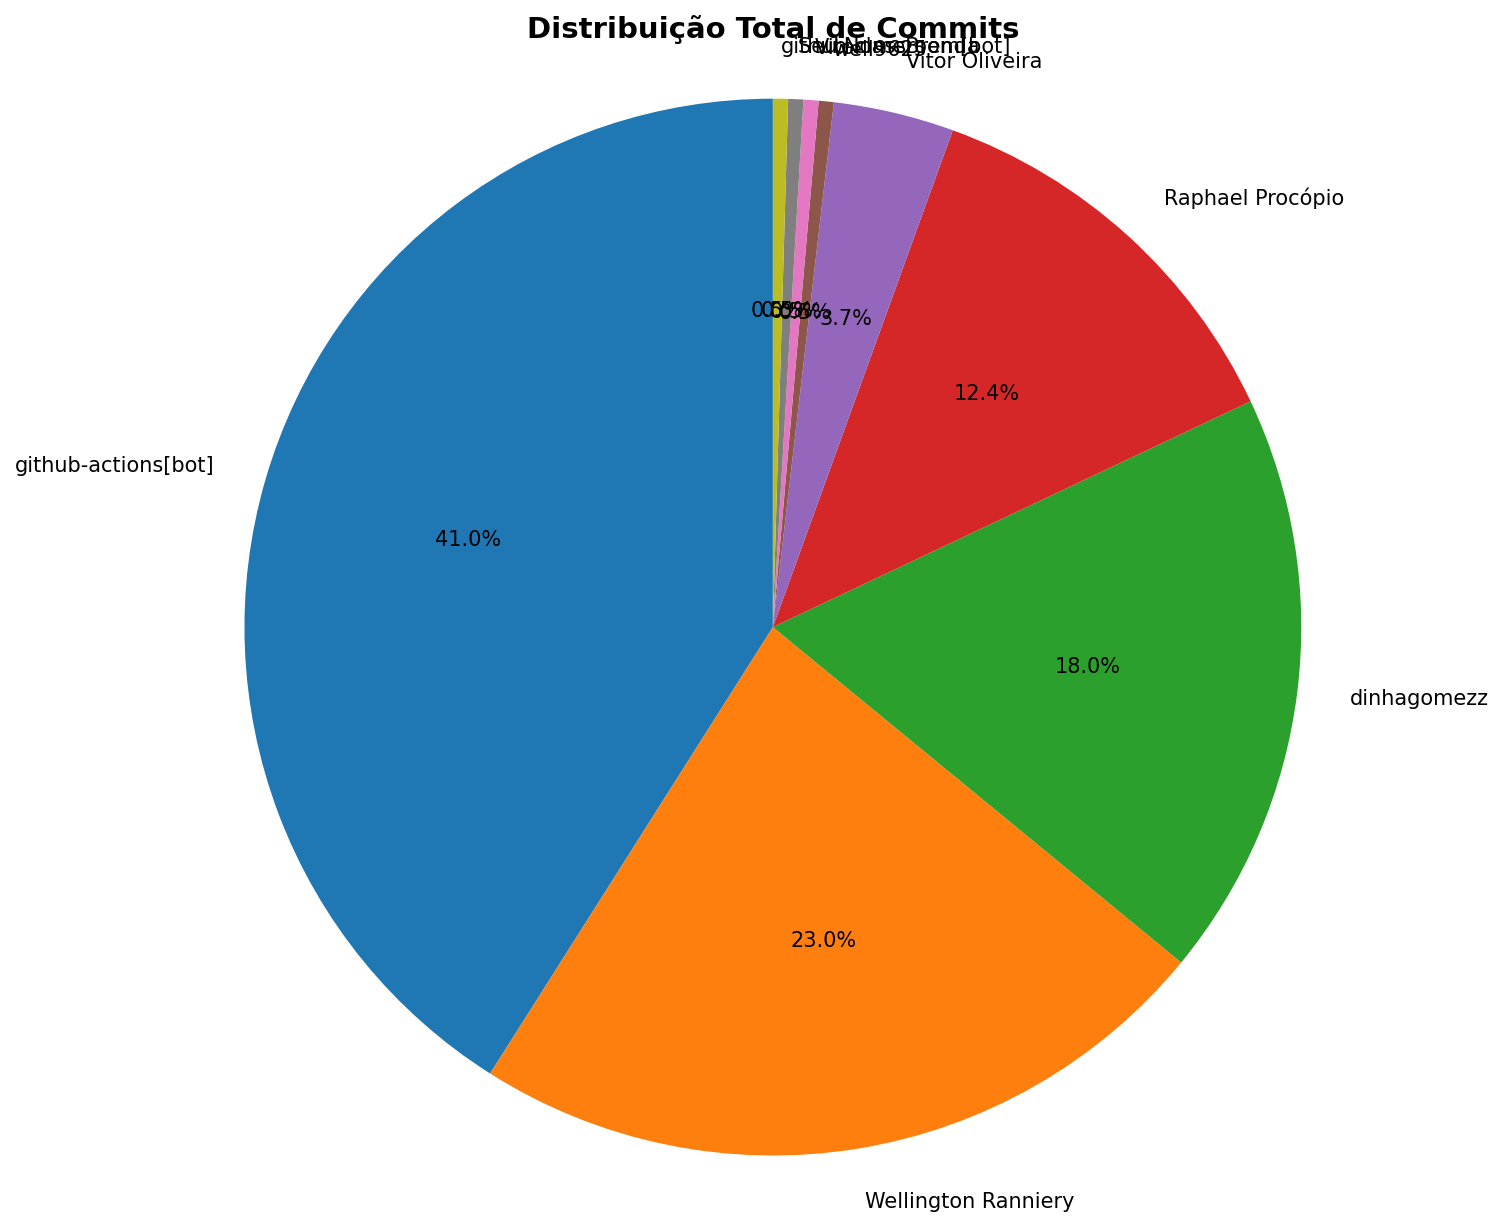
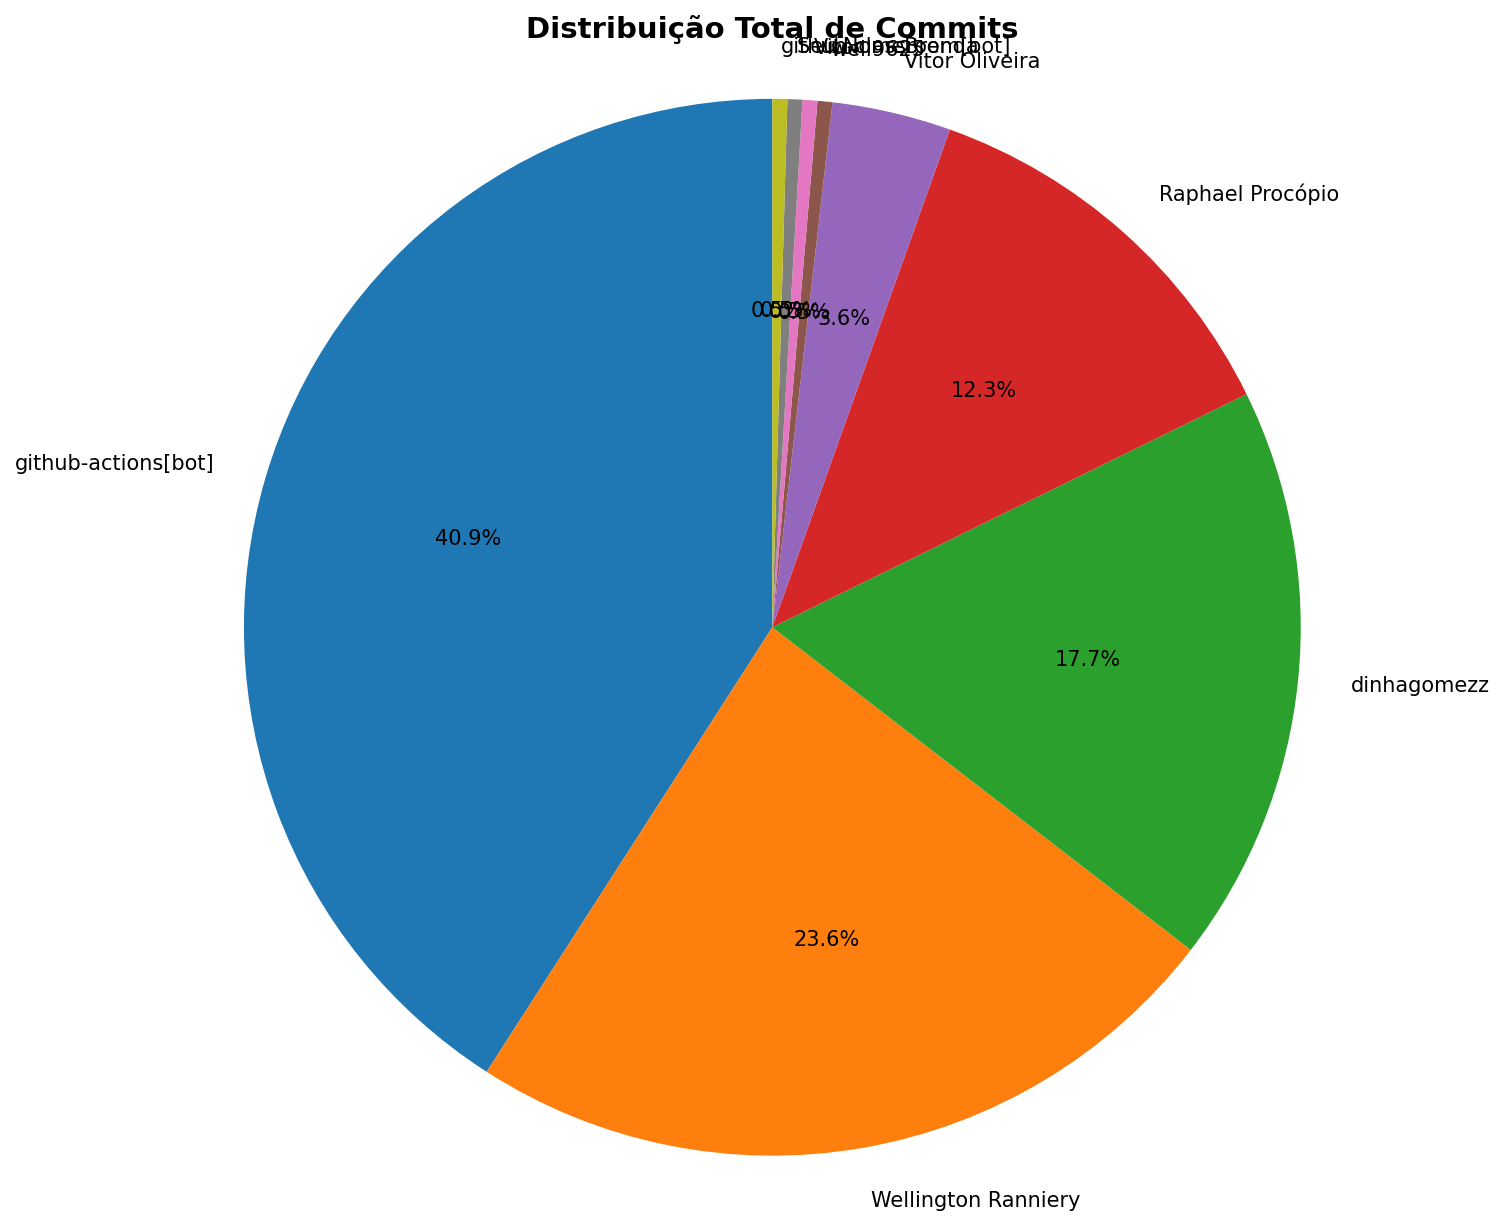
📊 Atualizar relatório de contribuições [skip ci]

diff --git a/documentos/CONTRIBUTION_REPORT.md b/documentos/CONTRIBUTION_REPORT.md
@@ -1,6 +1,6 @@
 # 📊 Relatório de Contribuições do Projeto
 
-**Última atualização:** 01/05/2026 01:52
+**Última atualização:** 01/05/2026 01:55
 
 ---
 
@@ -12,16 +12,16 @@
 | Seu NomeBrenda        |         1 |       494 |         0 |          5 |              0 |               0 |
 | Vitor                 |         1 |       974 |         0 |          6 |              0 |               0 |
 | Vitor Oliveira        |         8 |        70 |        39 |          3 |              7 |               1 |
-| Wellington Ranniery   |        50 |      1800 |       503 |         34 |             29 |               2 |
+| Wellington Ranniery   |        52 |      1802 |       504 |         34 |             29 |               2 |
 | dinhagomezz           |        39 |      1821 |       641 |         32 |              8 |               1 |
-| github-actions[bot]   |        89 |       480 |       421 |          3 |             89 |               1 |
+| github-actions[bot]   |        90 |       484 |       425 |          3 |             90 |               1 |
 | github-classroom[bot] |         1 |       774 |         0 |         19 |              1 |               3 |
 | well9625              |         1 |        76 |        65 |          2 |              0 |               0 |
 
 
 ## 📅 Contribuições Semanais (Todo o Semestre)
 
-**2026-04-24**: Raphael Procópio: 7, Seu NomeBrenda: 1, Vitor: 1, Wellington Ranniery: 11, dinhagomezz: 22, github-actions[bot]: 25, well9625: 1
+**2026-04-24**: Raphael Procópio: 7, Seu NomeBrenda: 1, Vitor: 1, Wellington Ranniery: 13, dinhagomezz: 22, github-actions[bot]: 26, well9625: 1
 
 **2026-04-17**: Raphael Procópio: 9, Wellington Ranniery: 10, dinhagomezz: 9, github-actions[bot]: 16
 
